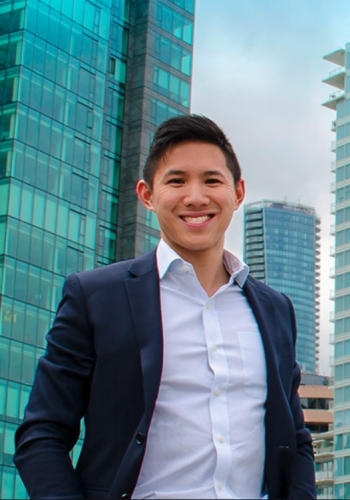
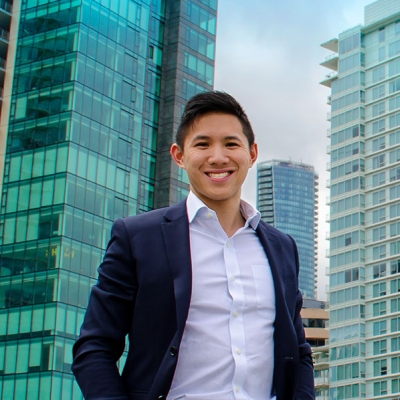
resized team images to squares

diff --git a/packages/landing/pages/index.js b/packages/landing/pages/index.js
@@ -30,7 +30,7 @@ export default () => {
         <Head>
           <title>Open Esquire | Legal Engineers</title>
           <meta name="theme-color" content="#10ac84" />
-          <meta name="Description" content="React next landing page" />
+          <meta name="Description" content="Enabling The Next Generation of Legal Services with Ethereum" />
           {/* Load google fonts */}
           <link
             href="https://fonts.googleapis.com/css?family=Roboto:100,100i,300,300i,400,400i,500,500i,700,700i,900,900i"

diff --git a/packages/common/src/containers/Agency/TeamSection/index.js b/packages/common/src/containers/Agency/TeamSection/index.js
@@ -40,7 +40,7 @@ const TeamSection = ({
                     src={member.thumbnail_url}
                     alt={`Team member photo ${member.id}`}
                     className="member__photo"
-                    style={{height:"400px", width:"400px",objectFit:"cover"}}
+                    style={{width:"100%", height:"100%",objectFit:"contain"}}
                   />
                 }
                 contentStyle={contentStyle}
